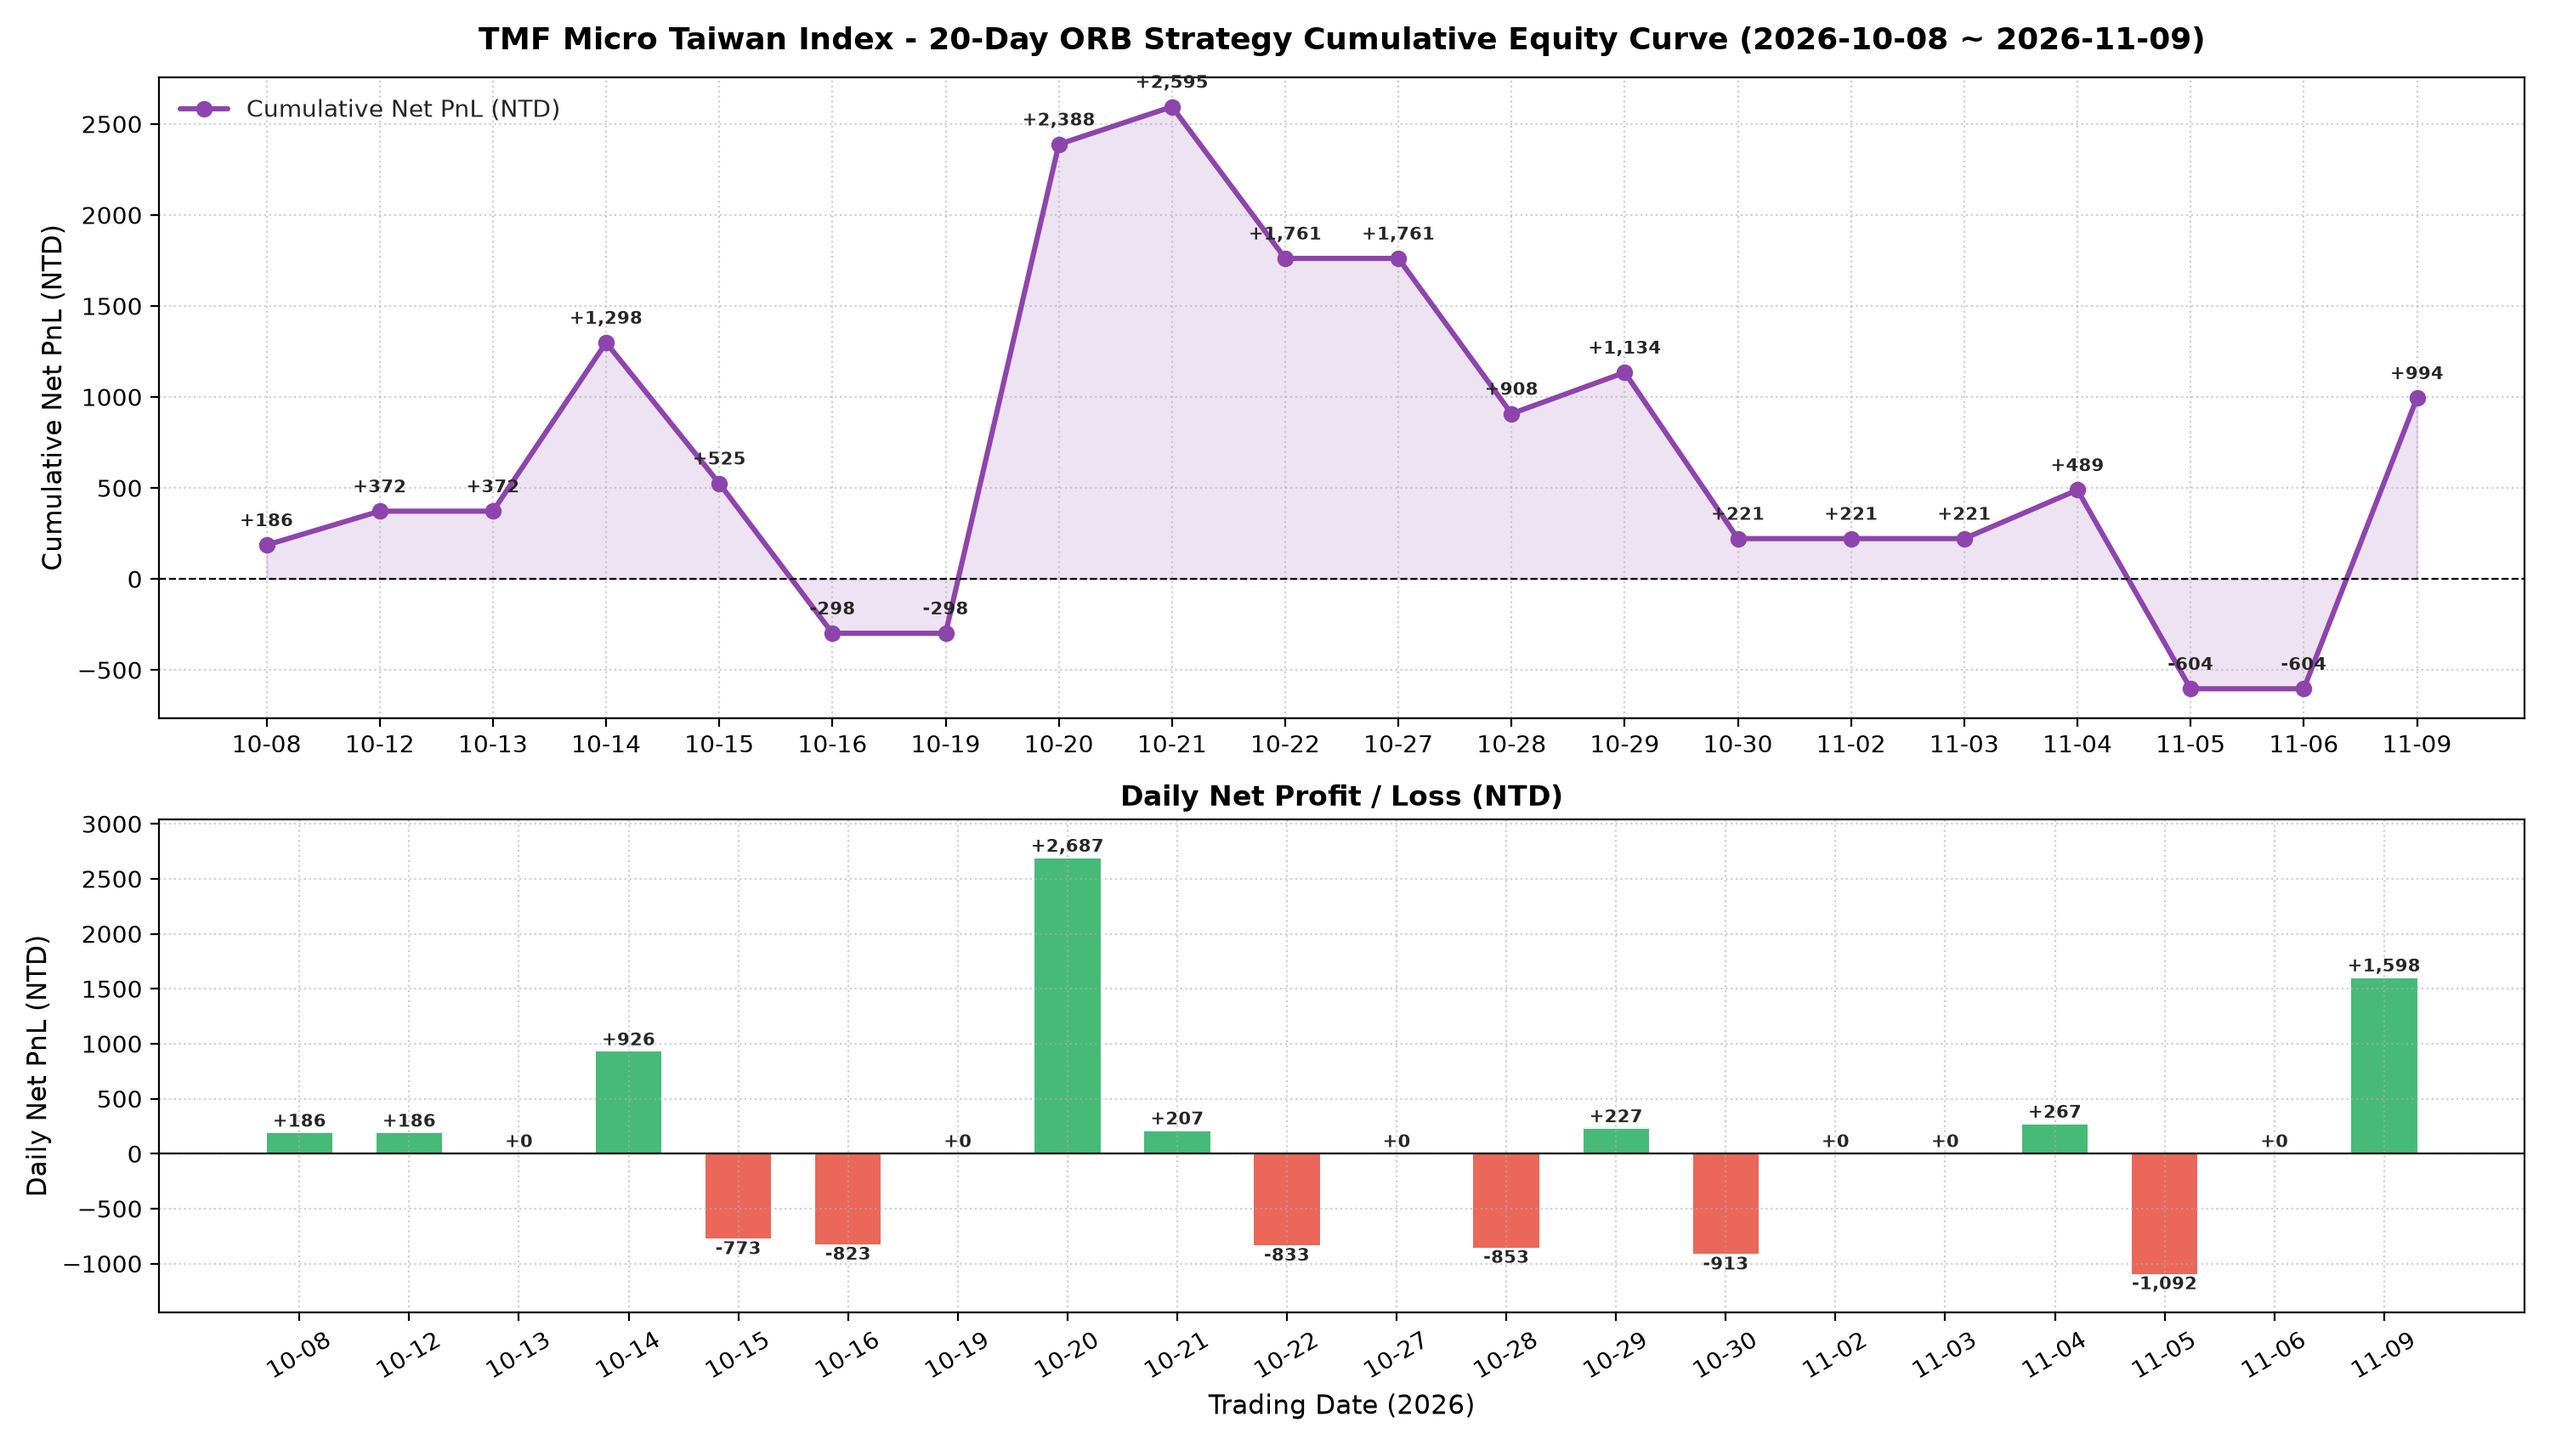
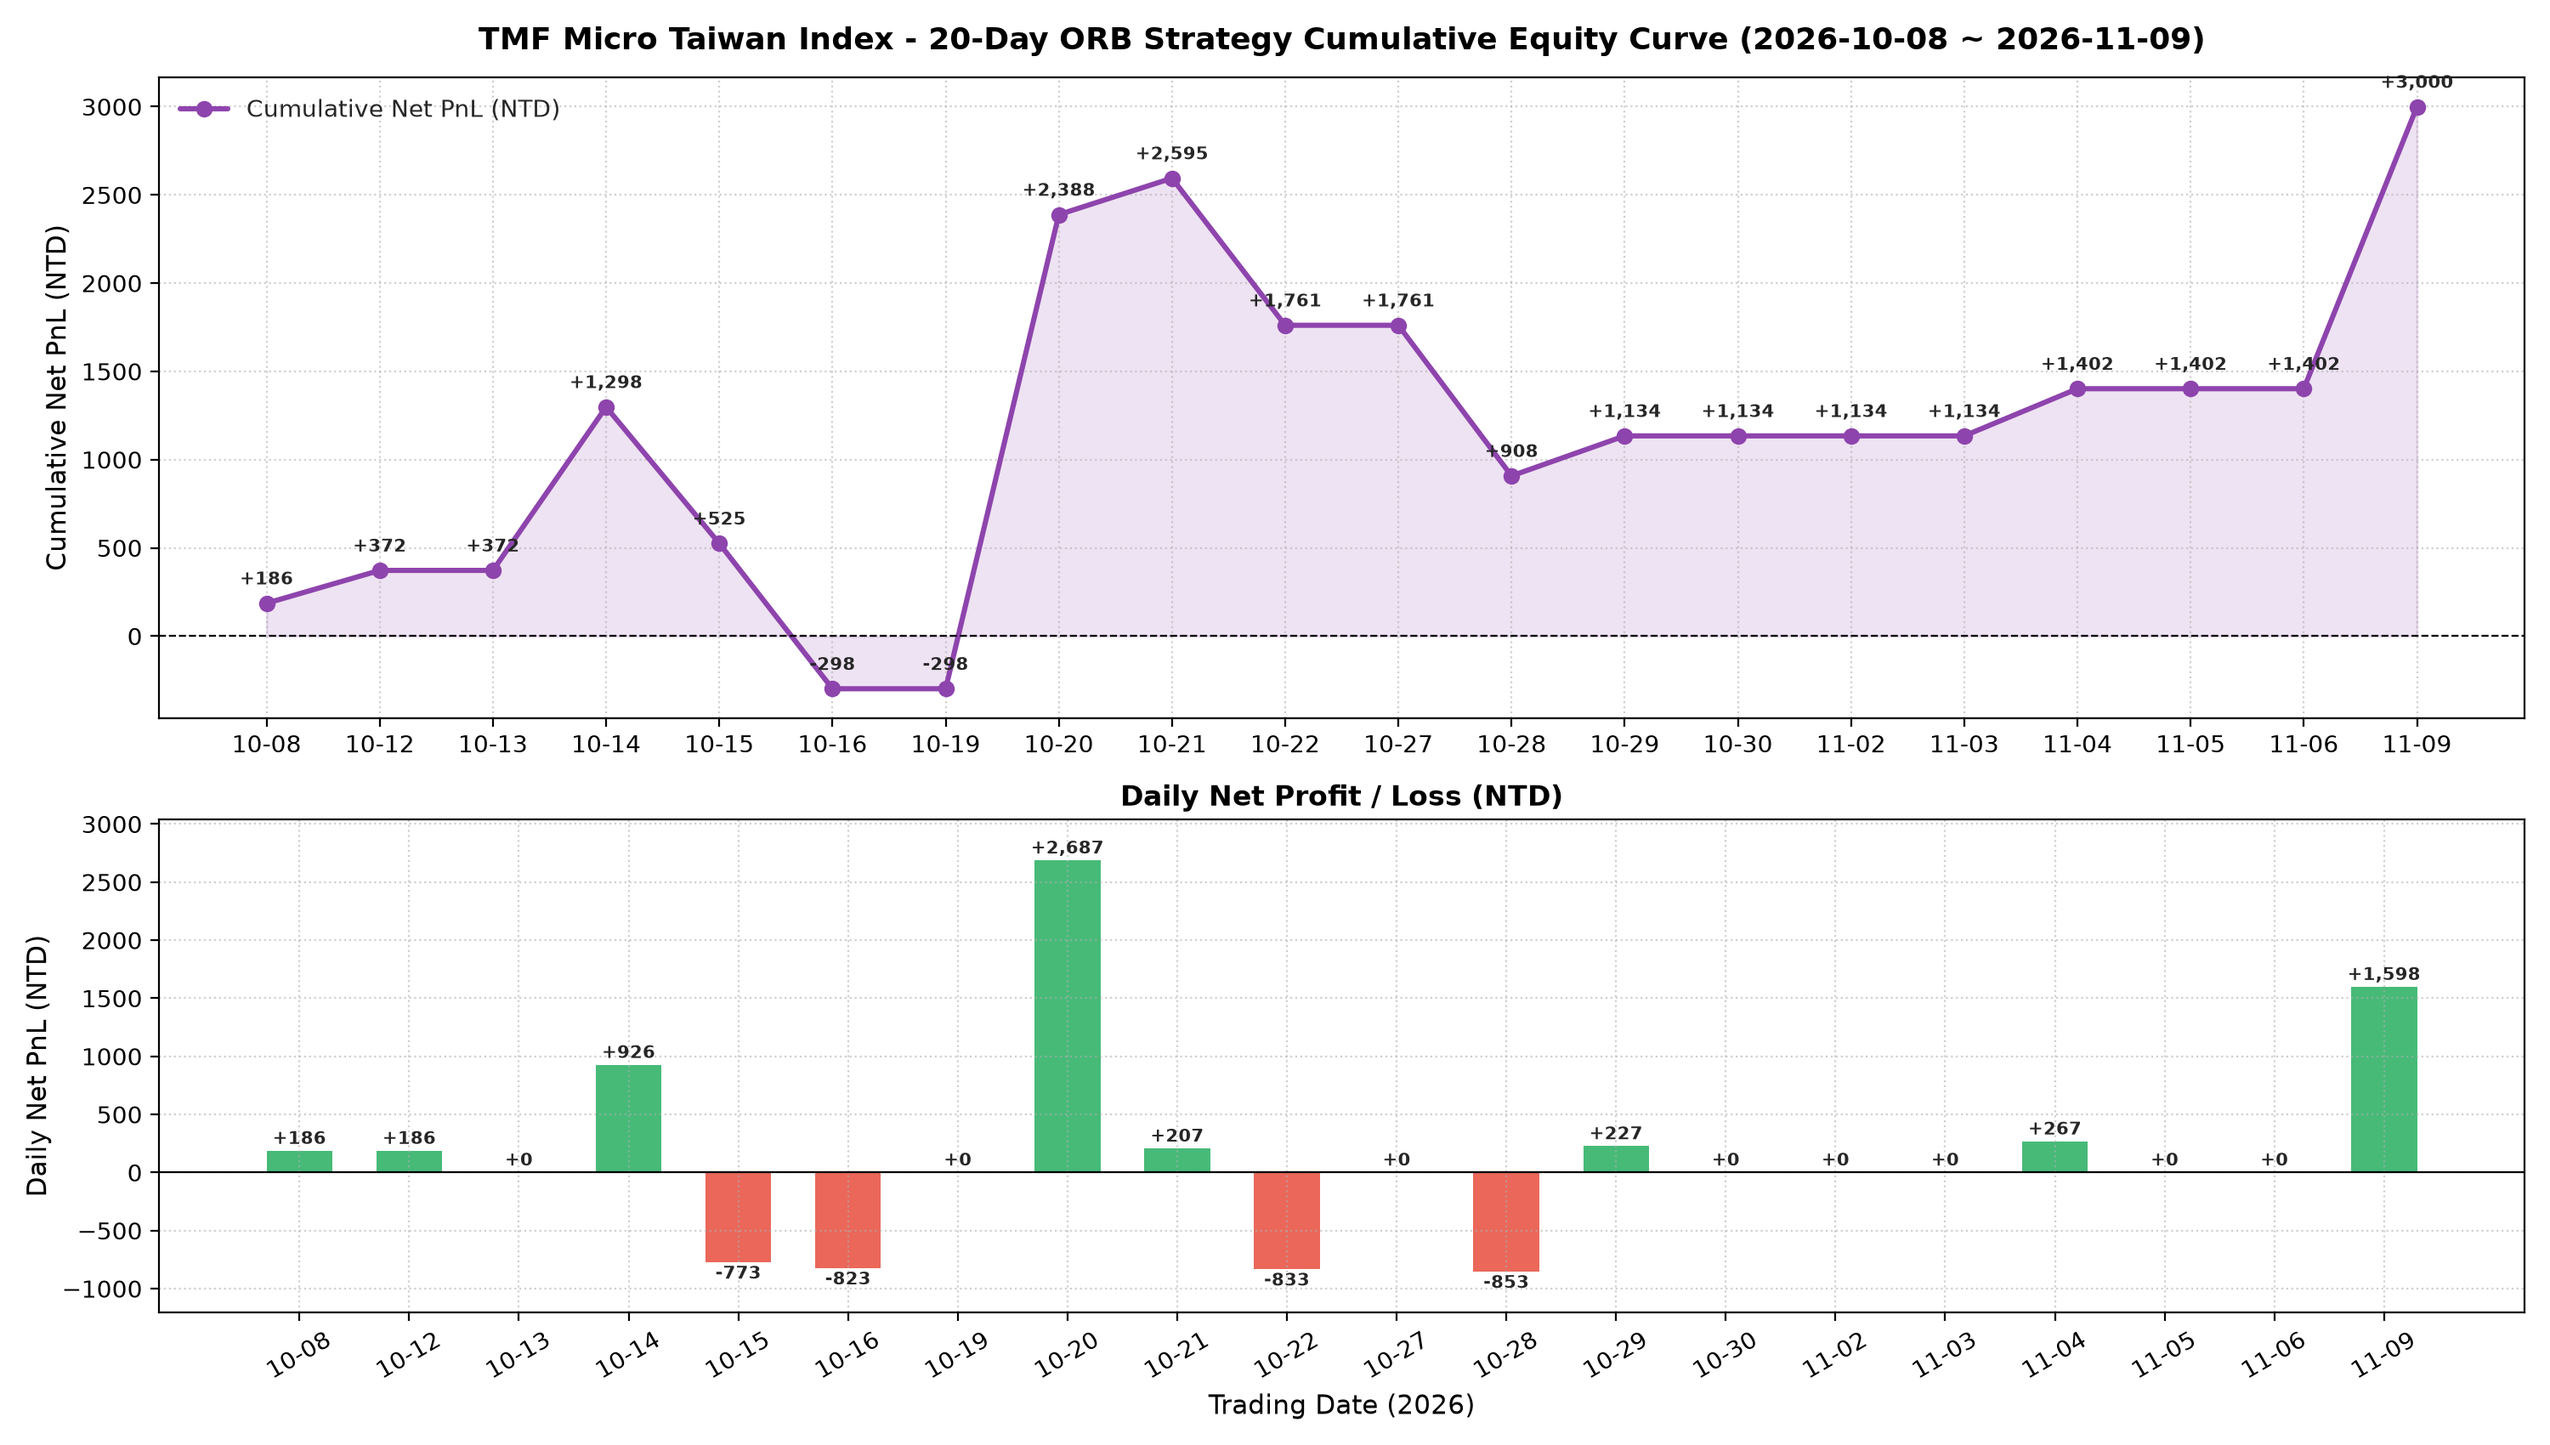
feat(strategy): upgrade Section 3A with Plan B anti-exhaustion & coil position filter (PF 1.91, +3000 NTD)

diff --git a/tmf_daytrading/strategies/orb_strategy.py b/tmf_daytrading/strategies/orb_strategy.py
@@ -81,6 +81,7 @@ class ORBStrategy:
         """處理單根 1分K 棒"""
         t_str = ts.strftime('%H:%M:%S')
         c = float(bar['close'])
+        o = float(bar.get('open', c))
         h = float(bar['high'])
         l = float(bar['low'])
         vwap = float(bar.get('vwap', c))
@@ -318,7 +319,7 @@ class ORBStrategy:
                         self.position = 0
                         return {"action": "EXIT", "record": trade_record}
 
-        # 3A. 09:01 ~ 09:15 早盤強勢爆發突破進場 (防止如 10/30 現貨一開盤直接崩跌 500 點而錯失行情)
+        # 3A. 09:01 ~ 09:15 早盤強勢爆發突破進場 (方案 B 精準改良版：空間未過度耗盡 + 蓄勢二次突破位置濾網)
         if (getattr(self.config, "enable_early_super_breakout", True) and
             self.position == 0 and
             self.pre_orb_high is not None and
@@ -329,7 +330,21 @@ class ORBStrategy:
             short_filter = (not self.config.use_vwap_ema_filter) or (c < vwap and ema9 < ema21)
             sb = self.config.early_super_breakout_pts
 
-            if c >= (self.pre_orb_high + sb) and long_filter:
+            # 方案 B 位置與動能保護濾網 (當 09:15 ORB 已鎖定時生效):
+            # 1. 空間未過度耗盡: orb_range <= max_orb_range * 1.25 (過濾如 10/30, 11/05 已狂瀉 500~840 點之地板衰竭追空)
+            # 2. 蓄勢位置確認: 緊貼 ORB 突破邊緣 (<= max_chase)，且當根非急拉/急殺極值棒 (h < orb_high / l > orb_low)，且 K 棒實體順勢
+            pos_long_ok = True
+            pos_short_ok = True
+            if self.orb_calculated and self.orb_high is not None and self.orb_low is not None:
+                orb_range_3a = self.orb_high - self.orb_low
+                max_orb_3a = getattr(self.config, "max_orb_range_pts", 320.0)
+                max_ratio_3a = getattr(self.config, "early_breakout_max_range_ratio", 1.25)
+                max_chase_3a = getattr(self.config, "max_breakout_chase_pts", 60.0)
+                range_ok = (orb_range_3a <= max_orb_3a * max_ratio_3a)
+                pos_long_ok = range_ok and ((self.orb_high - c) <= max_chase_3a) and (h < self.orb_high) and (c > o)
+                pos_short_ok = range_ok and ((c - self.orb_low) <= max_chase_3a) and (l > self.orb_low) and (c < o)
+
+            if c >= (self.pre_orb_high + sb) and long_filter and pos_long_ok:
                 self.position = 1
                 self.entry_price = c
                 self.entry_time = ts
@@ -339,9 +354,9 @@ class ORBStrategy:
                     "action": "BUY",
                     "price": c,
                     "time": ts,
-                    "detail": f"早盤強勢爆發突破 ({self.pre_orb_high}+{sb:.0f}點) + VWAP/EMA 多頭確認"
+                    "detail": f"早盤強勢蓄勢突破 ({self.pre_orb_high}+{sb:.0f}點) + 位置/VWAP/EMA 多頭確認"
                 }
-            elif c <= (self.pre_orb_low - sb) and short_filter:
+            elif c <= (self.pre_orb_low - sb) and short_filter and pos_short_ok:
                 self.position = -1
                 self.entry_price = c
                 self.entry_time = ts
@@ -351,7 +366,7 @@ class ORBStrategy:
                     "action": "SELL",
                     "price": c,
                     "time": ts,
-                    "detail": f"早盤強勢跳水突破 ({self.pre_orb_low}-{sb:.0f}點) + VWAP/EMA 空頭確認"
+                    "detail": f"早盤強勢蓄勢跳水 ({self.pre_orb_low}-{sb:.0f}點) + 位置/VWAP/EMA 空頭確認"
                 }
 
         # 3B. 09:16 ~ 11:30 標準現貨開盤區間突破 + ORB 寬度空間保護 + VWAP & EMA 延遲共振進場

diff --git a/tmf_daytrading/config.py b/tmf_daytrading/config.py
@@ -43,8 +43,9 @@ class InstrumentConfig:
 class ORBStrategyConfig:
     pre_orb_start_time: str = "08:45:00"     # 期貨早盤區間開始時間
     pre_orb_end_time: str = "09:00:00"       # 期貨早盤區間結束時間
-    enable_early_super_breakout: bool = True # 是否啟用 09:01~09:15 早盤強勢爆發突破進場 (True: 抓住急拉/急殺波段並拉高勝率至 73.3%)
+    enable_early_super_breakout: bool = True # 是否啟用 09:01~09:15 早盤強勢爆發突破進場 (方案 B 精準改良版: 勝率 66.7%, 20日淨利 +3,000元)
     early_super_breakout_pts: float = 85.0   # 09:01~09:15 強勢爆發突破門檻 (超越早盤高低點達 85 點立即順勢進場，不漏掉早盤急殺/急拉行情)
+    early_breakout_max_range_ratio: float = 1.25 # 09:15 鎖定時允許之 ORB 空間倍率上限 (1.25x max_orb_range，過濾動能已耗盡之地板追空/追高)
     orb_start_time: str = "09:00:00"         # 現貨開盤區間開始時間 (09:00 台股現貨開盤)
     orb_end_time: str = "09:15:00"           # 現貨開盤區間結束時間 (09:00~09:15 關鍵區間)
     entry_start_time: str = "09:16:00"       # 允許突破進場開始時間
